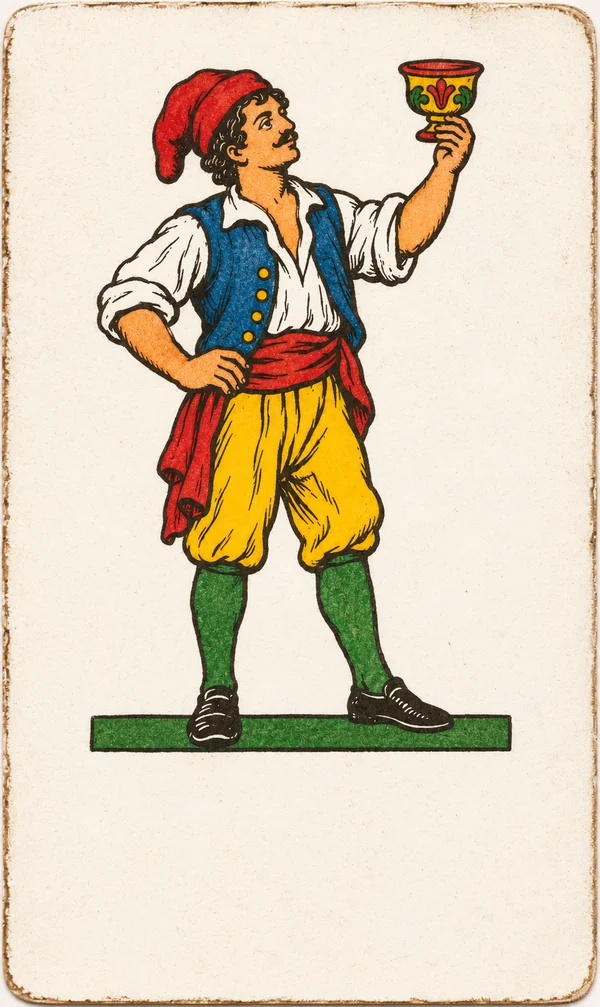
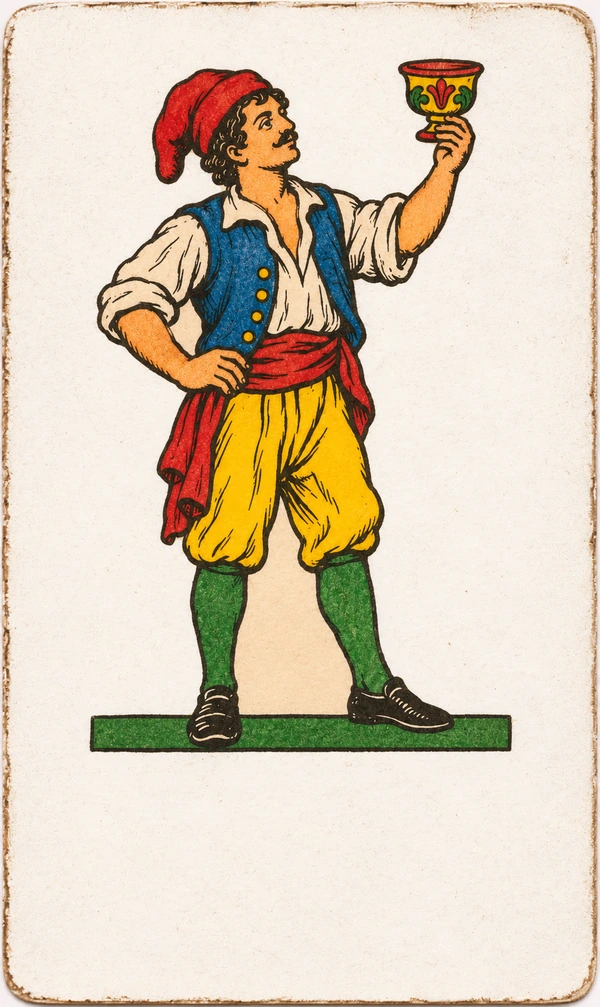
fix(scopone): restore Coppe character with unified ivory background

Changed region(s): [[0.15, 0.1847, 0.69, 0.3694], [0.39, 0.4926, 0.6, 0.708], [0.33, 0.708, 0.36, 0.7388]]

diff --git a/scopone-magico/assets/cards/RIFERIMENTI_CONTADINO_COPPE.md b/scopone-magico/assets/cards/RIFERIMENTI_CONTADINO_COPPE.md
@@ -1,21 +1,30 @@
-# Scopone Alchemico — Carta 02 · Contadino di Coppe
-Carta realizzata su richiesta, approvata con correzione di uniformità dello sfondo.
+# Scopone Alchemico — Contadino di Coppe · correzione sfondo
+Stato: ripristinato il personaggio originario e verificata l'uniformità dell'avorio del mazzo.
 
-## Fonti napoletane autentiche
-- Foglio completo **Coppe**, Fante/Cavallo/Re dello stesso mazzo: https://commons.wikimedia.org/wiki/File:Carte_da_gioco_napoletane_coppe.jpg
-- Autore della scansione: **Despues**, CC BY-SA 3.0: https://creativecommons.org/licenses/by-sa/3.0/
-- Carta approvata **Contadino di Bastoni** nella stessa cartella: riferimento per **tinta della carta e linguaggio grafico**, non modello da clonare.
+## Sorgenti e identità
+- Autentico repertorio Coppe (Fante, Cavallo, Re), scansione Despues, CC BY-SA 3.0: https://commons.wikimedia.org/wiki/File:Carte_da_gioco_napoletane_coppe.jpg
+- Base di confronto per la **tinta del fondo**: `contadino-bastoni-originale.webp` (approvato).
+- Origine della figura: l'immagine originale del Contadino di Coppe già mostrata e accettata (berretto rosso floscio, gilet blu, camicia bianca, pantaloni gialli, calze verdi, coppa alzata).
 
-## Correzione 15 novembre 2026
-Il primo Contadino di Coppe usava un fondo aranciato/pergamena, diverso dall'avorio chiaro del Bastoni. La tinta del fondo è stata schiarita e neutralizzata **conservando il personaggio già accettato**, compresi postura, vestiario, espressione, coppa e campiture colorate.
-Carta comune, valore nominale RGB **(248, 242, 230) / #F8F2E6**, con lievissime oscillazioni di stampa e texture: non una tinta casuale distinta per seme. La cornice può preservare il segno della stampa.
+## Verifica e correzione
+La visualizzazione precedente aveva mostrato un'ulteriore **generazione** con vestiario diverso. Verificando gli asset già presenti sulla branch `main`, si è constatato che l'immagine salvata nel repository conteneva **già** il Contadino di Coppe originario; la preview non corrispondeva all'asset pubblicato.
 
-## File
-- `contadino-coppe-originale.webp` — illustrazione corretta 968 × 1625
-- `contadino-coppe-gioco.webp` — versione ottimizzata 600 × 1007, con fascia inferiore già priva di figure
-- `contadino-coppe.json` — metadati di carta e riferimento
+Per eliminare qualsiasi ambiguità:
+1. L'immagine originale prima della correzione è stata recuperata.
+2. È stata individuata la sagoma completa (personaggio, coppa e base verde).
+3. Sono stati copiati nell'immagine finale **senza alcuna modifica** tutti i pixel all'interno della sagoma: **399.892 pixel originali**.
+4. Esclusivamente la carta fuori sagoma ha ricevuto la correzione colorimetrica.
+5. Mediana del fondo misurata sul Bastoni: **RGB(247,240,231)**; mediana del Coppe ripristinato: **RGB(247,240,231)**. Le variazioni di grana della stampa restano naturali.
+6. L'illustrazione è stata esportata in WebP ad alta qualità e la variante per il gioco a 600 × 1007.
 
-## Regola visiva generale del mazzo
-Gli **sfondi** devono condividere una tinta avorio uniforme fra tutti i semi. Le **figure** di semi diversi sono libere di variare nella fisionomia, nei colori degli abiti, nei dettagli, nelle pose e nella composizione, secondo il repertorio delle carte napoletane autentiche. Effetti, valori e testi nell'interfaccia rimangono **livelli separati** dai pixel.
+## Standard del mazzo
+- **Tinta della carta comune fra tutti i semi**, misurata sul modello approvato. Valore nominale di riferimento: `#F8F2E6`, soggetto a variazioni minime per la grana.
+- I personaggi di semi differenti devono avere **autonomia di pose, fisionomia, abiti e colori**, pur rispettando il tratto napoletano.
+- I testi delle abilità non fanno parte dell'illustrazione.
 
-L'asset non è collegato al motore e **non sostituisce automaticamente** carte esistenti.
+## File della carta
+- `contadino-coppe-originale.webp`: figura autentica del progetto con fondo uniformato
+- `contadino-coppe-gioco.webp`: formato mobile con fascia inferiore libera
+- `contadino-coppe.json`: metadati, nessuna logica di gioco
+
+Questa modifica non altera il motore matematico, né le altre carte.
